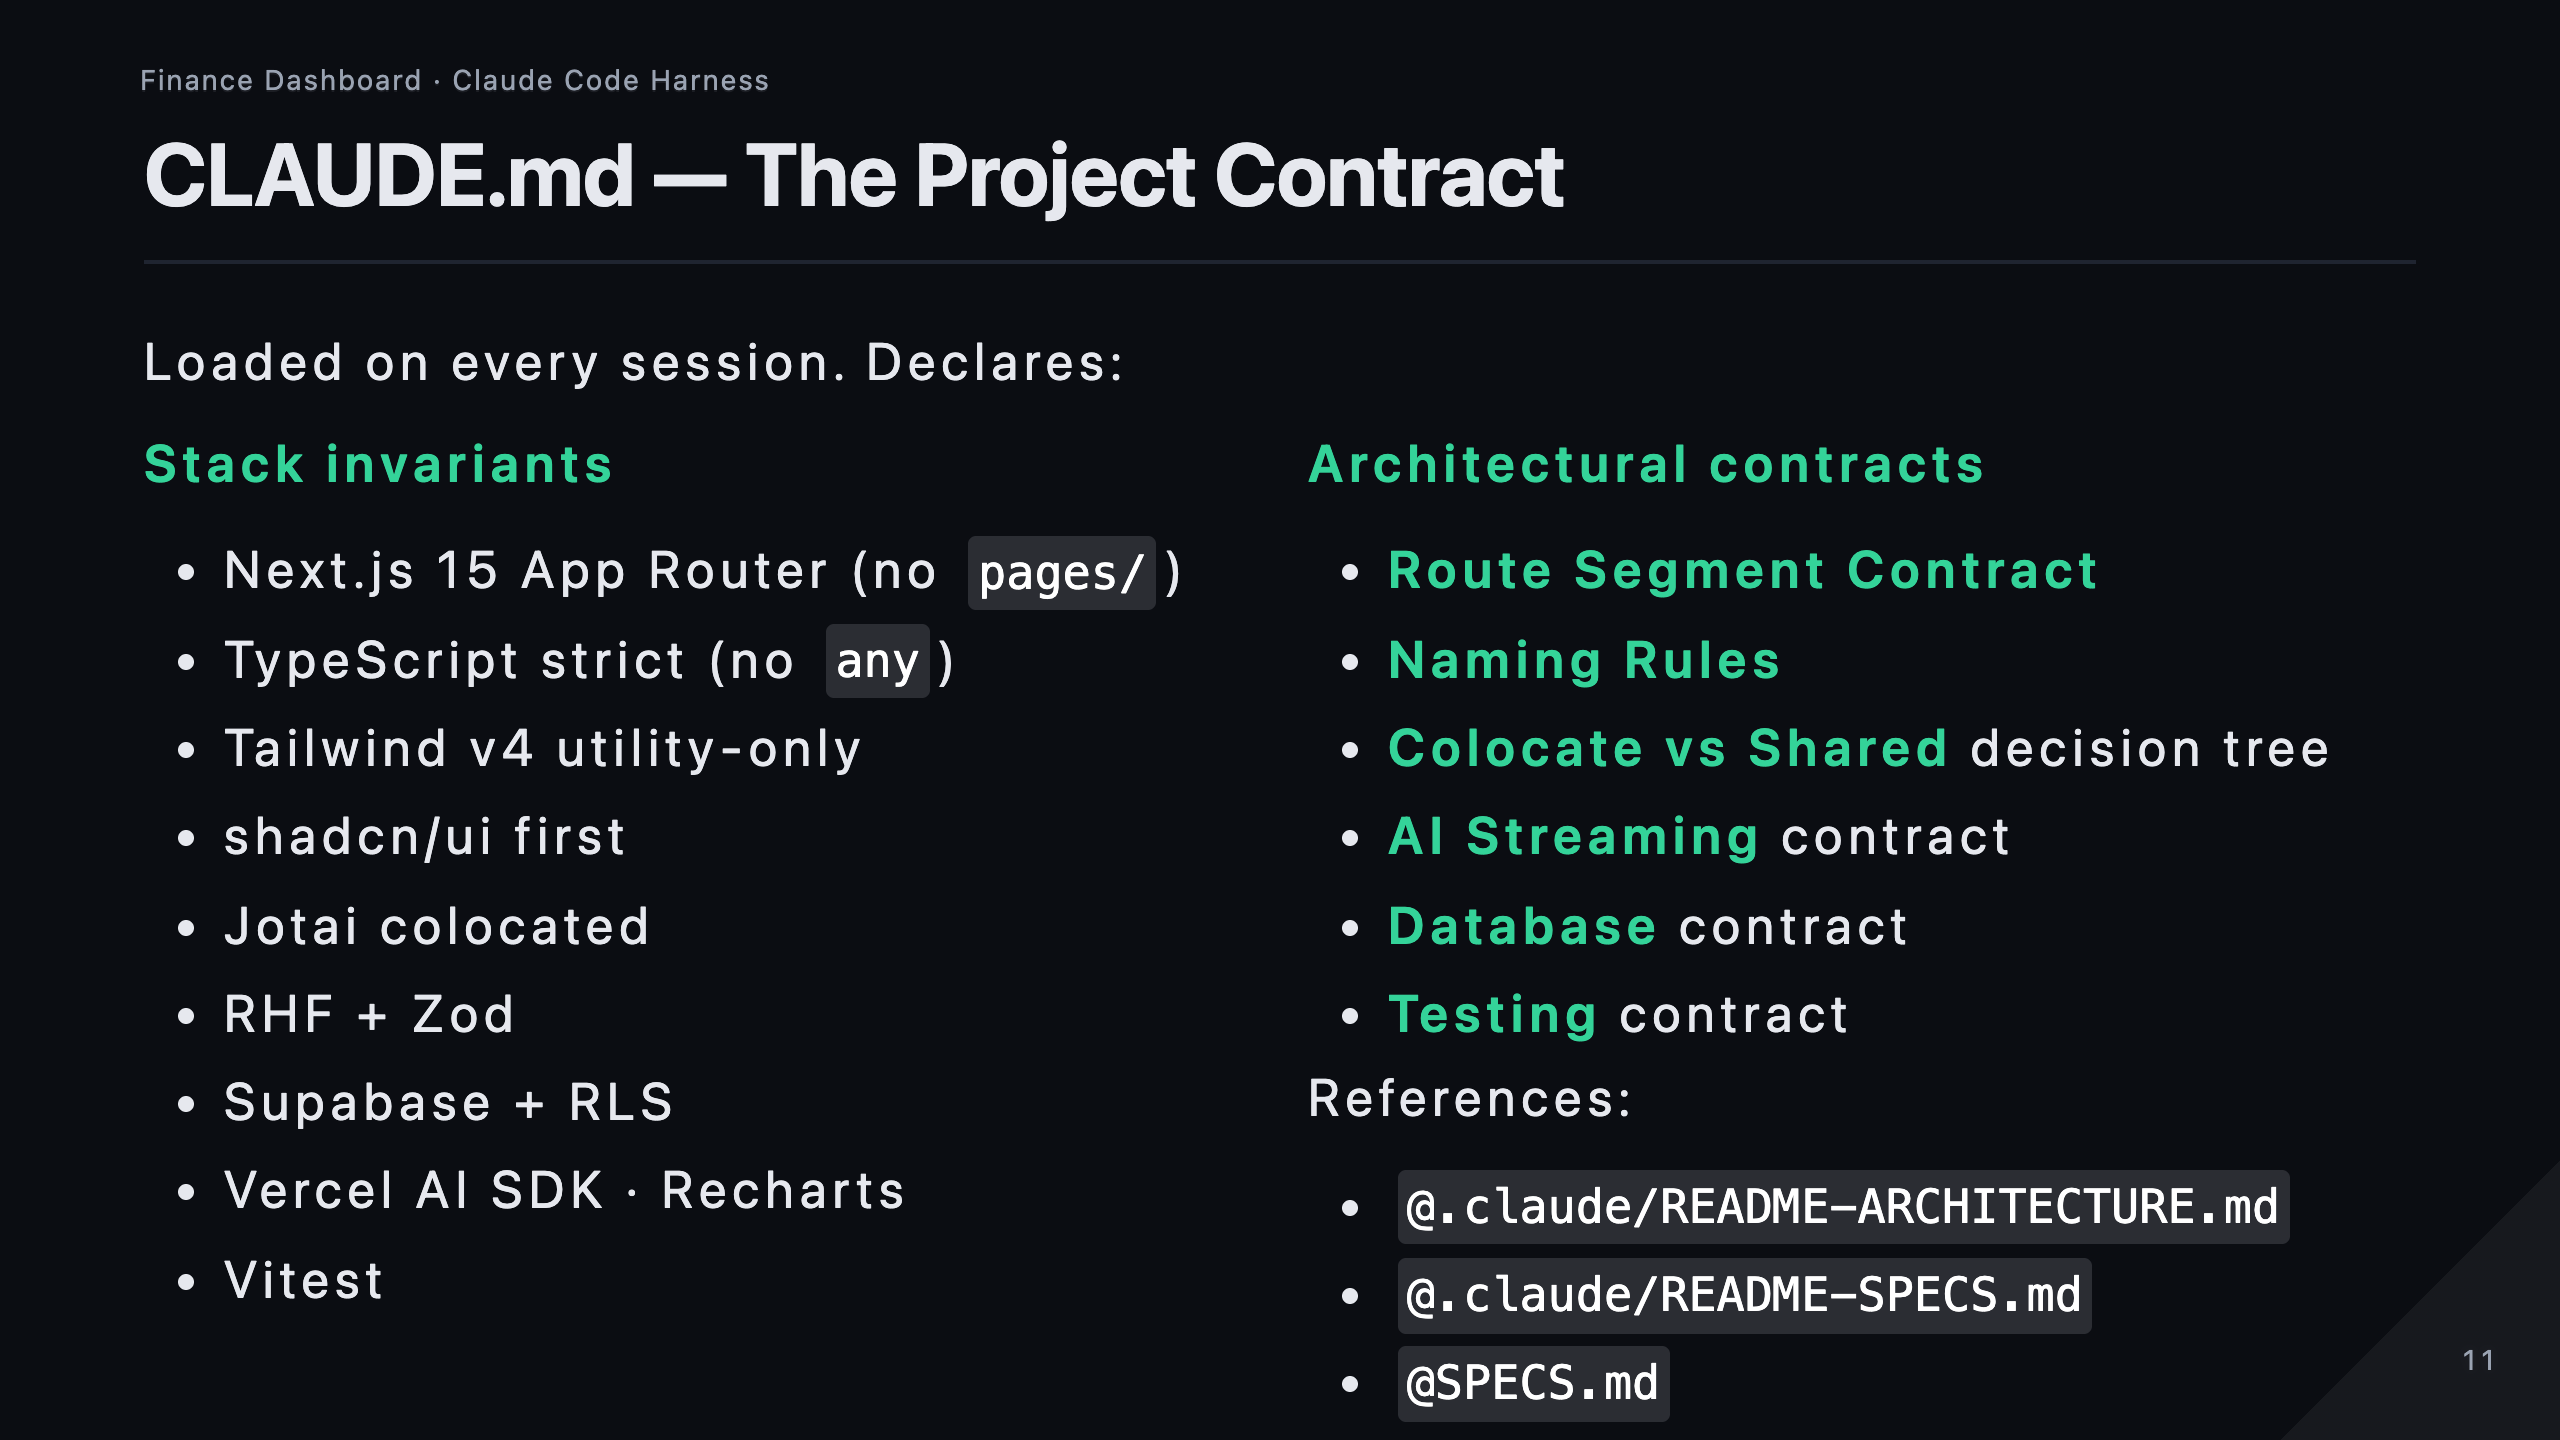
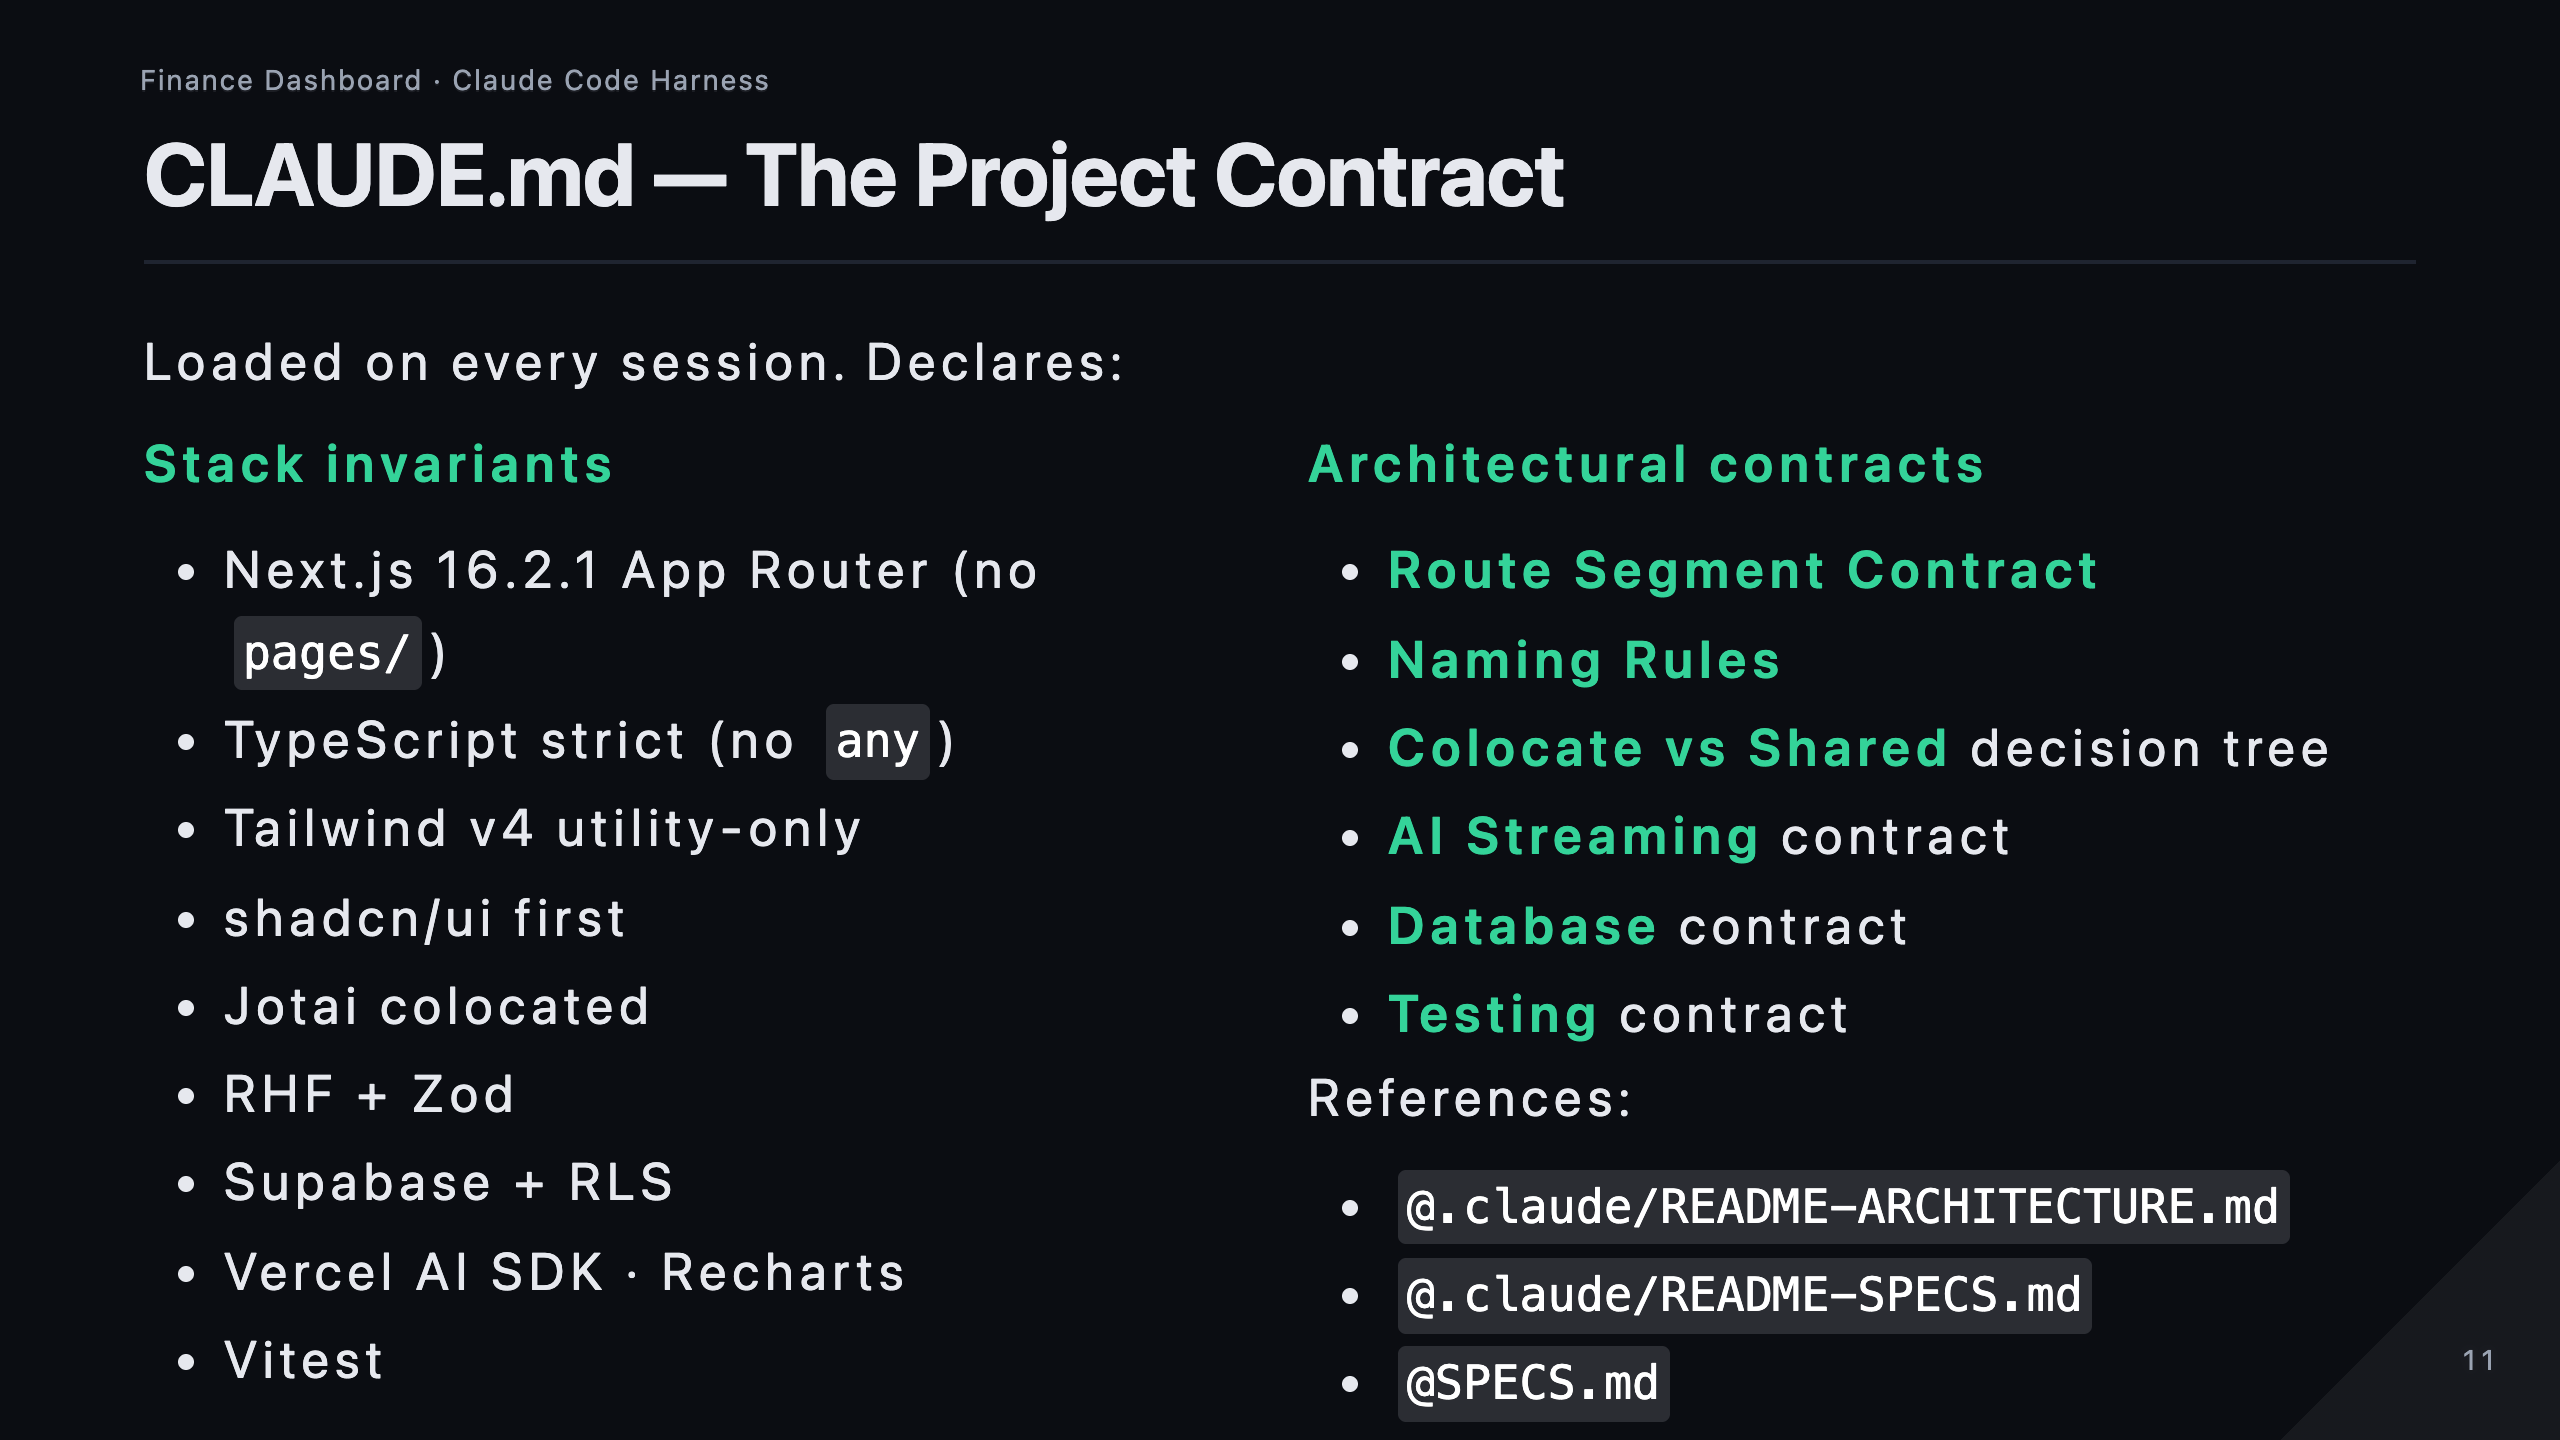
fix: update nextjs version

diff --git a/docs/HARNESS-LINKEDIN.md b/docs/HARNESS-LINKEDIN.md
@@ -6,7 +6,7 @@ _How a small `.claude/` folder, one `CLAUDE.md`, and a numbered `SPECS.md` turne
 
 We have all seen the demo: an AI agent writes a feature in 30 seconds. We have also all seen the next morning: the file lives in the wrong folder, the migration has no RLS policy, the dates are in UTC instead of Costa Rica time, and there is no test.
 
-After shipping a personal finance dashboard end-to-end with Claude Code (Next.js 15, TypeScript strict, Supabase, Vercel AI SDK), I converged on a pattern that fixes this. I call it the **harness**. It is five small files that turn an LLM from a creative junior into a reliable senior engineer that never forgets the conventions.
+After shipping a personal finance dashboard end-to-end with Claude Code (Next.js 16.2.1, TypeScript strict, Supabase, Vercel AI SDK), I converged on a pattern that fixes this. I call it the **harness**. It is five small files that turn an LLM from a creative junior into a reliable senior engineer that never forgets the conventions.
 
 Here is what it looks like.
 
@@ -193,6 +193,6 @@ Five small things. The result is an AI pair-programmer I can actually trust on a
 
 If you are building with Claude Code, Cursor, or any agentic IDE — try writing your `SPECS.md` first. Then write the rules that protect it. The model will meet you there.
 
-_— Built while shipping a personal finance dashboard for VOO / QQQ / Bitcoin tracking. Stack: Next.js 15, TypeScript strict, Supabase, Vercel AI SDK, Tailwind v4, shadcn/ui._
+_— Built while shipping a personal finance dashboard for VOO / QQQ / Bitcoin tracking. Stack: Next.js 16.2.1, TypeScript strict, Supabase, Vercel AI SDK, Tailwind v4, shadcn/ui._
 
 #AI #SoftwareEngineering #ClaudeCode #SpecDrivenDevelopment #NextJS #TypeScript #DeveloperProductivity #LLM #AgenticAI

diff --git a/.claude/skills/frontend-design/SKILL.md b/.claude/skills/frontend-design/SKILL.md
@@ -32,7 +32,7 @@ Before writing any code, commit to a clear aesthetic direction for this componen
 | Components | shadcn/ui                             | Use existing primitives first — `Card`, `Table`, `Badge`, `Button`, `Dialog`, `Sheet`, `Skeleton`, `Toast`, `Alert`, `Tabs`, `Form`, `Input`, `Select`, `Separator`, `Tooltip` |
 | Charts     | Recharts                              | `AreaChart`, `PieChart`, `BarChart`, `ComposedChart`, `RadialBarChart` — SVG-based, responsive                                                                                 |
 | State      | Jotai                                 | Colocated `_atoms.ts` for interactive UI state                                                                                                                                 |
-| Framework  | Next.js 15                            | Server Components by default. `'use client'` only when needed (forms, charts, interactive elements)                                                                            |
+| Framework  | Next.js 16.2.1                        | Server Components by default. `'use client'` only when needed (forms, charts, interactive elements)                                                                            |
 | Motion     | Tailwind `animate-*` + `transition-*` | CSS-only animations. Use `framer-motion` only if already installed                                                                                                             |
 
 **CRITICAL**: All components MUST use shadcn/ui + Tailwind classes. Never generate raw HTML/CSS or introduce new CSS frameworks.

diff --git a/README-PRODUCT-DESIGN-DOCUMENT.md b/README-PRODUCT-DESIGN-DOCUMENT.md
@@ -161,7 +161,7 @@ The allocation is intentionally simple — three liquid, globally accessible ass
 
 | #       | Feature Area               | Description                                                                                               | Route                               |
 | ------- | -------------------------- | --------------------------------------------------------------------------------------------------------- | ----------------------------------- |
-| **E1**  | Project Foundation         | Next.js 15 + TypeScript strict + Tailwind v4 + shadcn/ui + Supabase + Vitest                              | — (infrastructure)                  |
+| **E1**  | Project Foundation         | Next.js 16.2.1 + TypeScript strict + Tailwind v4 + shadcn/ui + Supabase + Vitest                          | — (infrastructure)                  |
 | **E2**  | Authentication & Profile   | Email/password + Google OAuth, profile onboarding, sidebar layout                                         | `(auth)/`, `profile/`, `dashboard/` |
 | **E3**  | Market Data Engine         | Real-time + historical prices for VOO, QQQ, BTC. Sentiment indices. Macro indicators.                     | `market/`, `api/market/`            |
 | **E4**  | Portfolio Tracker          | Manual position entry, overview dashboard, transaction history, target allocation + drift alerts          | `portfolio/`                        |

diff --git a/docs/HARNESS.md b/docs/HARNESS.md
@@ -193,7 +193,7 @@ Allowed commit scopes (from `commitlint.config.mjs`): `setup`, `auth`, `portfoli
 
 [CLAUDE.md](../CLAUDE.md) is the project instructions file the agent loads on every session. It declares:
 
-- **Tech stack invariants** — Next.js 15 App Router (never `pages/`), TypeScript strict (no `any`/`@ts-ignore`/`as unknown as`), Tailwind v4 (utility-only), shadcn/ui first, Jotai colocated, RHF + Zod, Supabase + RLS, Vercel AI SDK, Recharts, date-fns + `@date-fns/tz`, Vitest.
+- **Tech stack invariants** — Next.js 16.2.1 App Router (never `pages/`), TypeScript strict (no `any`/`@ts-ignore`/`as unknown as`), Tailwind v4 (utility-only), shadcn/ui first, Jotai colocated, RHF + Zod, Supabase + RLS, Vercel AI SDK, Recharts, date-fns + `@date-fns/tz`, Vitest.
 - **The Route Segment Contract** — the canonical folder shape for every `app/<route>/`:
   - Required: `page.tsx`, `_actions.ts`, `_schema.ts`, `_components/`, `__tests__/`
   - Optional: `layout.tsx`, `loading.tsx`, `error.tsx`, `_types.ts`, `_hooks.ts`, `_atoms.ts`, `_constants.ts`, `_utils.ts`

diff --git a/CLAUDE.md b/CLAUDE.md
@@ -6,11 +6,11 @@
 
 ## Project Overview
 
-Personal finance dashboard for a Costa Rica-based software developer tracking VOO, QQQ, and Bitcoin investments. Built with Next.js 15 App Router, TypeScript strict, Supabase, and Vercel AI SDK.
+Personal finance dashboard for a Costa Rica-based software developer tracking VOO, QQQ, and Bitcoin investments. Built with Next.js 16.2.1 App Router, TypeScript strict, Supabase, and Vercel AI SDK.
 
 ## Tech Stack
 
-- **Framework**: Next.js 15 (App Router) — always use `app/` directory, never `pages/`
+- **Framework**: Next.js 16.2.1 (App Router) — always use `app/` directory, never `pages/`
 - **Language**: TypeScript strict — no `any`, no `@ts-ignore`, no `as unknown as`
 - **Styling**: Tailwind CSS v4 — utility classes only, no custom CSS files
 - **UI**: shadcn/ui — use existing components before building custom ones

diff --git a/SPECS.md b/SPECS.md
@@ -2381,7 +2381,7 @@ lib/
 
 | Layer            | Technology                       | Purpose                                 |
 | ---------------- | -------------------------------- | --------------------------------------- |
-| Framework        | Next.js 15 (App Router)          | Full-stack React framework              |
+| Framework        | Next.js 16.2.1 (App Router)      | Full-stack React framework              |
 | Language         | TypeScript (strict)              | Type safety                             |
 | Styling          | Tailwind CSS v4                  | Utility-first CSS                       |
 | UI Components    | shadcn/ui                        | Accessible, composable components       |

diff --git a/.claude/skills/capture-prompts/SKILL.md b/.claude/skills/capture-prompts/SKILL.md
@@ -31,7 +31,7 @@ Rewrite each extracted prompt to:
 - **Improve** clarity, precision, and conciseness.
 - **Preserve** the original intent exactly — no semantic drift, no added assumptions.
 - **Upgrade** wording to professional, developer-grade English.
-- **Normalize** project terminology (e.g., "shadcn" → "shadcn/ui", "supabase" → "Supabase", "next" → "Next.js 15").
+- **Normalize** project terminology (e.g., "shadcn" → "shadcn/ui", "supabase" → "Supabase", "next" → "Next.js 16.2.1").
 - **Remove** filler phrases ("I want you to", "Can you please", "I think we should") — use direct imperative form.
 
 **Quality constraints**:

diff --git a/.claude/README-SKILLS.md b/.claude/README-SKILLS.md
@@ -233,7 +233,7 @@ Rules are markdown files with a YAML frontmatter `paths:` glob. When you edit a 
 
 - No semantic drift — original intent preserved exactly
 - No added assumptions or features not in the original prompt
-- Terminology normalized to project conventions (shadcn/ui, Supabase, Next.js 15)
+- Terminology normalized to project conventions (shadcn/ui, Supabase, Next.js 16.2.1)
 
 **Example**: `/capture-prompts all` → Captures all session prompts into README-PROMPTS.md
 

diff --git a/README.md b/README.md
@@ -2,7 +2,7 @@
 
 > Personal finance command center for a self-directed VOO / QQQ / Bitcoin investor based in Costa Rica.
 
-Built with Next.js 15 (App Router), TypeScript strict, Tailwind CSS v4, shadcn/ui, Supabase, Vercel AI SDK, and Recharts.
+Built with Next.js 16.2.1 (App Router), TypeScript strict, Tailwind CSS v4, shadcn/ui, Supabase, Vercel AI SDK, and Recharts.
 
 ![Dashboard Home](docs/images/dashboard.png)
 

diff --git a/docs/HARNESS-MARP-SLIDES.md b/docs/HARNESS-MARP-SLIDES.md
@@ -339,7 +339,7 @@ Loaded on every session. Declares:
 
 **Stack invariants**
 
-- Next.js 15 App Router (no `pages/`)
+- Next.js 16.2.1 App Router (no `pages/`)
 - TypeScript strict (no `any`)
 - Tailwind v4 utility-only
 - shadcn/ui first
